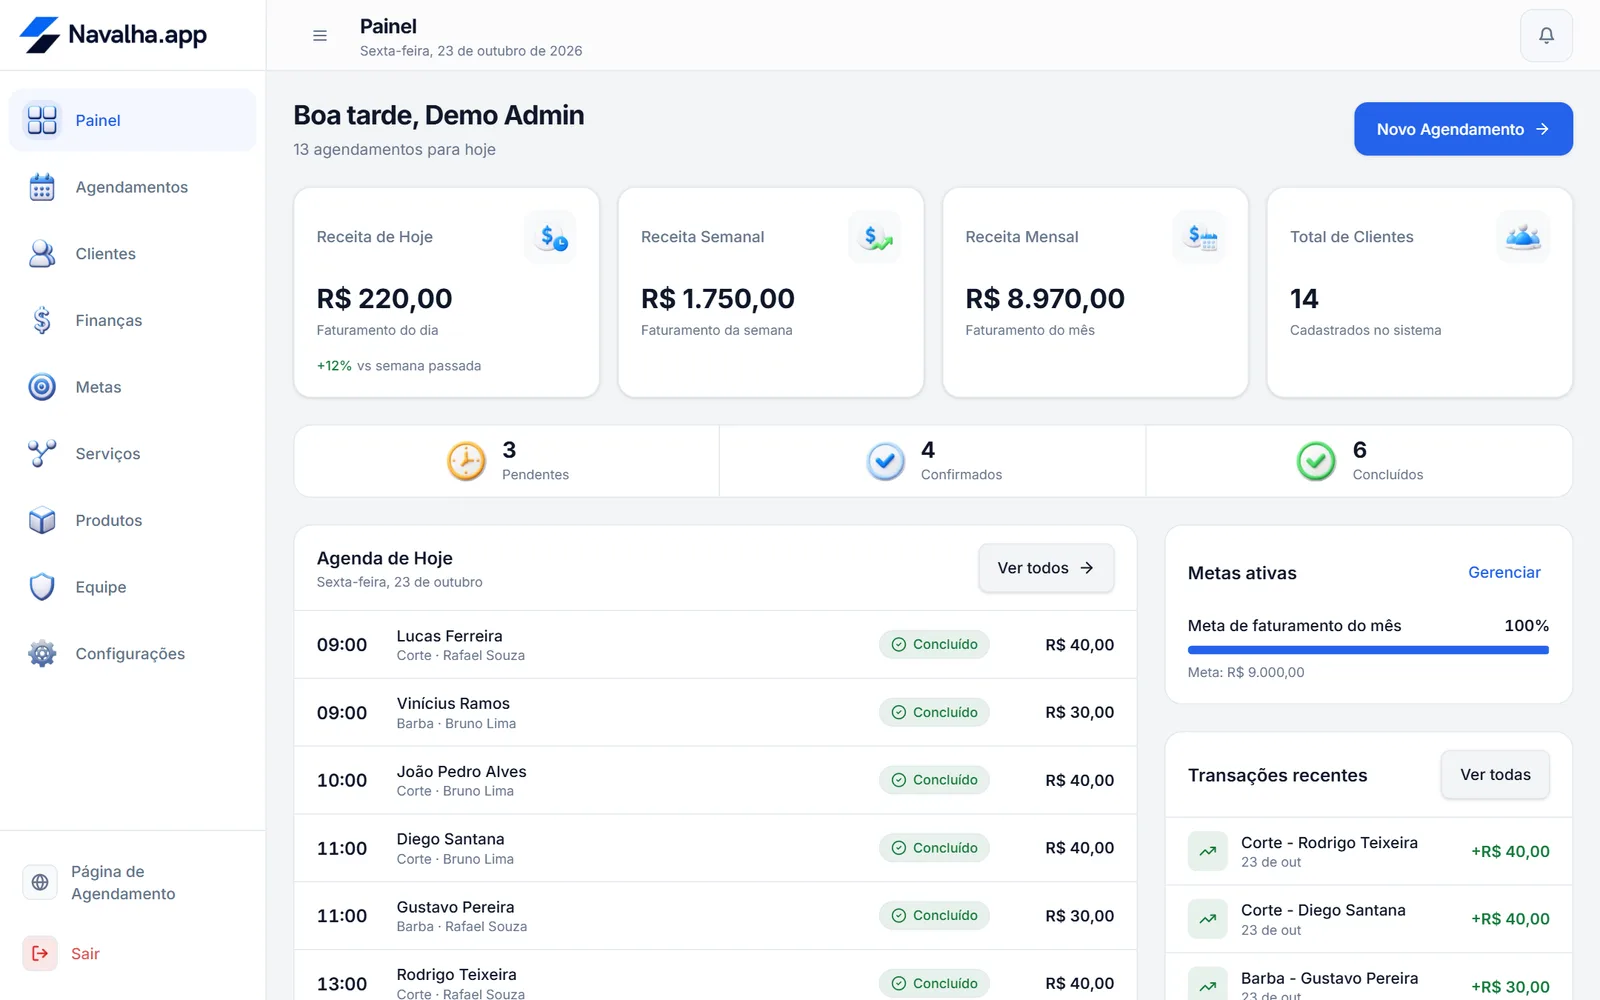
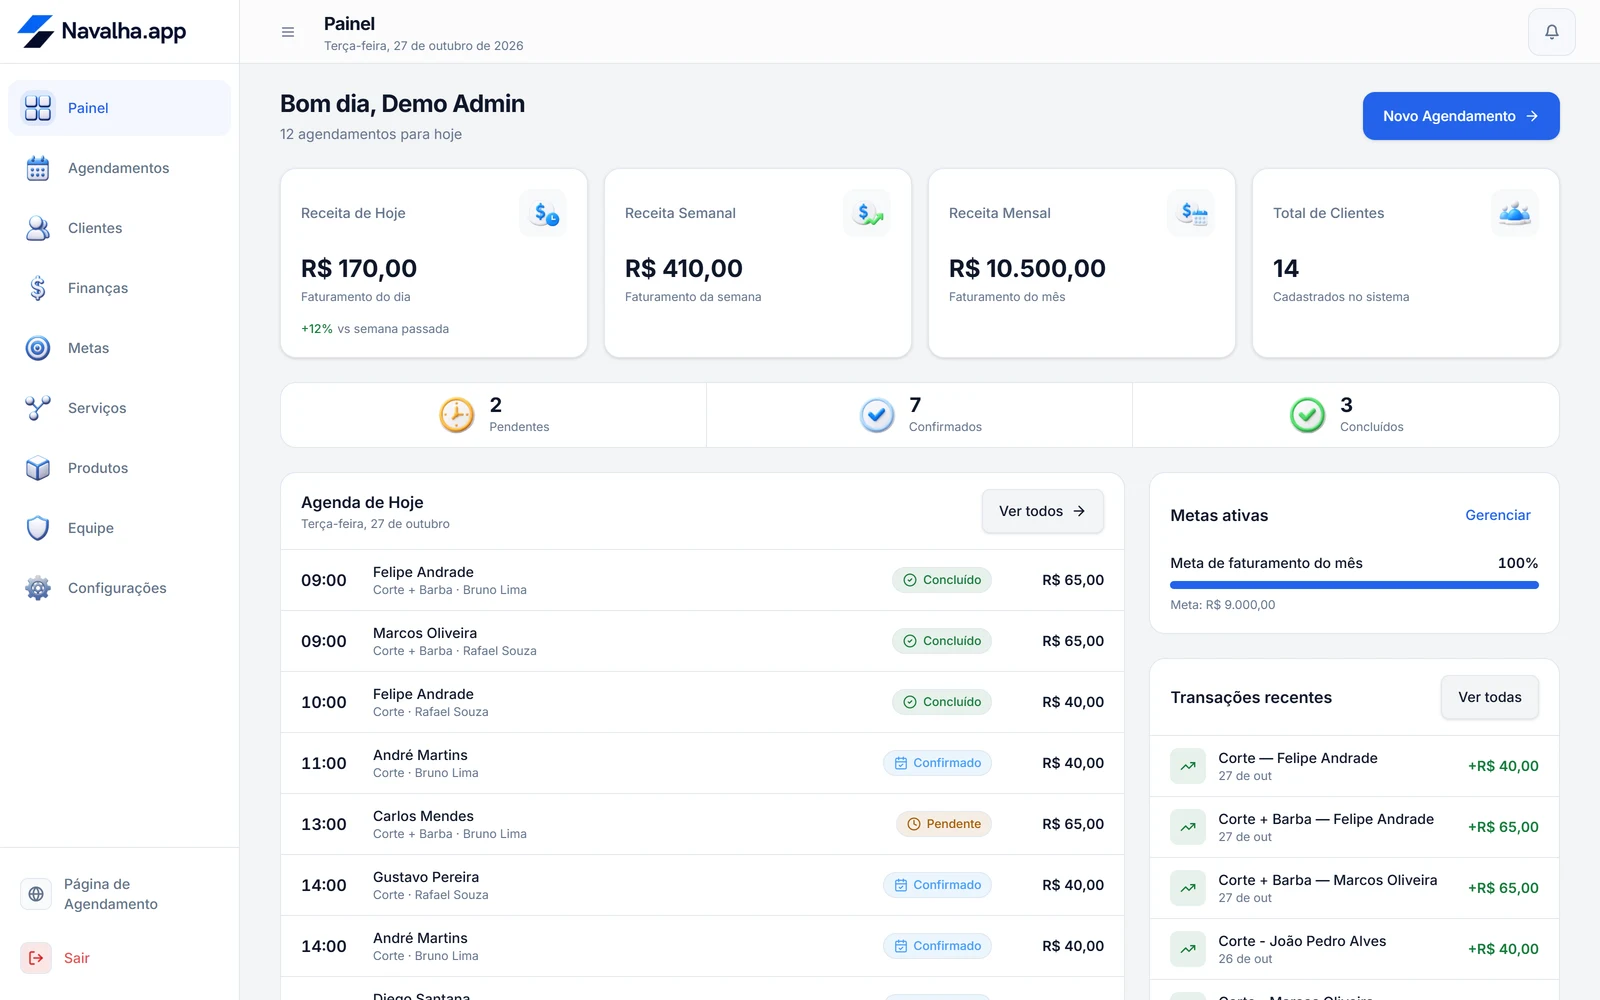
feat(demo): prints novos na documentacao e "proprietario" no lugar de "dono"
Os 10 prints da /produto foram refeitos na demo ao vivo (telas atuais: icones
ilustrados, grafico do Caixa, saudacao pelo nome), capturados em 2x e reduzidos
para 1600 px (celular 700x1515). Equipe, Metas e Produtos cortados logo abaixo
do conteudo, com as alturas ajustadas nas props. Na documentacao, "dono" vira
"proprietario" (o sistema ja usa Administrador e Barbeiro). So texto e imagens.

diff --git a/app/produto/page.tsx b/app/produto/page.tsx
@@ -33,12 +33,12 @@ const shots = {
   agenda: shot('agenda-desktop.webp', 'Agendamentos', 'Os horários do dia, por barbeiro, com o status de cada um.'),
   clientes: shot('clientes-desktop.webp', 'Clientes', 'Cadastro com telefone, total de atendimentos e último atendimento.'),
   servicos: shot('servicos-desktop.webp', 'Serviços', 'Cada serviço com duração, valor e foto.'),
-  equipe: shot('equipe-desktop.webp', 'Equipe', 'Dono e barbeiros, cada um com o seu acesso.', 1600, 600),
+  equipe: shot('equipe-desktop.webp', 'Equipe', 'Proprietário e barbeiros, cada um com o seu acesso.', 1600, 500),
   financas: shot('financas-desktop.webp', 'Finanças', 'Caixa, receitas, despesas, lucro e fluxo de caixa.'),
-  metas: shot('metas-desktop.webp', 'Metas', 'A meta do mês e o quanto já foi alcançado.', 1600, 600),
-  produtos: shot('produtos-desktop.webp', 'Produtos', 'Catálogo com valor e estoque de cada produto.', 1600, 640),
+  metas: shot('metas-desktop.webp', 'Metas', 'A meta do mês e o quanto já foi alcançado.', 1600, 560),
+  produtos: shot('produtos-desktop.webp', 'Produtos', 'Catálogo com valor e estoque de cada produto.', 1600, 540),
   reserva: shot('agendamento-online-celular.webp', 'Agendamento online', 'O que o cliente vê no celular, no passo de escolher o serviço.', 700, 1515),
-  painelCel: shot('painel-celular.webp', 'Painel no celular', 'O dono acompanha a barbearia pelo celular.', 700, 1515),
+  painelCel: shot('painel-celular.webp', 'Painel no celular', 'O proprietário acompanha a barbearia pelo celular.', 700, 1515),
 }
 
 // Menu da documentação: o mesmo no lado esquerdo (computador) e no menu do celular
@@ -46,7 +46,7 @@ const nav: { grupo: string; itens: [id: string, rotulo: string][] }[] = [
   { grupo: 'Começando', itens: [['visao-geral', 'Visão geral'], ['primeiros-passos', 'Primeiros passos']] },
   { grupo: 'Para o cliente', itens: [['agendamento-online', 'Agendamento online']] },
   {
-    grupo: 'Painel do dono',
+    grupo: 'Painel do proprietário',
     itens: [
       ['painel', 'Painel do dia'],
       ['agendamentos', 'Agendamentos'],
@@ -149,7 +149,7 @@ export default function ProdutoPage() {
             Como o Navalha.app funciona, <span className="text-blue-400">tela por tela</span>
           </h1>
           <p className="mt-5 max-w-[60ch] text-base leading-relaxed text-[#9fb0cc] sm:text-lg">
-            Cada parte do sistema, as regras que ele aplica e o que esperar. Para o dono, para o barbeiro e para quem vai implantar. Os prints são desta demonstração, com dados fictícios.
+            Cada parte do sistema, as regras que ele aplica e o que esperar. Para o proprietário, para o barbeiro e para quem vai implantar. Os prints são desta demonstração, com dados fictícios.
           </p>
           <div className="mt-7 flex flex-col gap-3 sm:flex-row">
             <Link href="/login" className={botaoPrimario}>
@@ -172,7 +172,7 @@ export default function ProdutoPage() {
               <RuleTable
                 head={['Perfil', 'Acesso']}
                 rows={[
-                  ['Dono (administrador)', 'Todas as telas: painel, agendamentos, clientes, finanças, metas, serviços, produtos, equipe e configurações. Só o dono cria, edita e remove usuários.'],
+                  ['Proprietário (administrador)', 'Todas as telas: painel, agendamentos, clientes, finanças, metas, serviços, produtos, equipe e configurações. Só o proprietário cria, edita e remove usuários.'],
                   ['Barbeiro', <>Só a tela de <strong className="text-white">Agendamentos</strong>, e apenas com os próprios horários. Ao criar um agendamento, ele entra na própria agenda.</>],
                   ['Cliente', <>Não tem login. Agenda pelo link público da barbearia (<Code>/book</Code>).</>],
                 ]}
@@ -226,7 +226,7 @@ export default function ProdutoPage() {
             <DocSection
               id="painel"
               title="Painel do dia"
-              lead="A primeira tela do dono. Mostra como o dia e o mês estão, sem abrir relatório."
+              lead="A primeira tela do proprietário. Mostra como o dia e o mês estão, sem abrir relatório."
             >
               <RuleTable
                 head={['Bloco', 'O que mostra']}
@@ -253,12 +253,12 @@ export default function ProdutoPage() {
                 A lista é organizada por dia e pode ser filtrada por status (todos, pendentes, confirmados, concluídos e cancelados). Cada linha traz horário, cliente, serviços, barbeiro, valor e status, com um menu de ações. O botão <strong className="text-white">Novo Agendamento</strong> cria um horário pelo balcão.
               </P>
               <P>
-                O barbeiro vê somente os agendamentos dele. O dono vê os de toda a equipe. O que pode mudar de um status para outro está em Status do agendamento.
+                O barbeiro vê somente os agendamentos dele. O proprietário vê os de toda a equipe. O que pode mudar de um status para outro está em Status do agendamento.
               </P>
               <DocFigure shot={shots.agenda} />
             </DocSection>
 
-            <DocSection id="clientes" title="Clientes" lead="O cadastro e o histórico de quem frequenta a barbearia. Telas do dono.">
+            <DocSection id="clientes" title="Clientes" lead="O cadastro e o histórico de quem frequenta a barbearia. Telas do proprietário.">
               <P>
                 Cada cliente tem nome, telefone, e-mail (opcional) e observações. A lista mostra o total de atendimentos e a data do último, e tem busca por nome ou telefone. Há um atalho para chamar o cliente no WhatsApp. Ao remover um cliente, ele é arquivado e some da lista, mas o histórico dos atendimentos é preservado.
               </P>
@@ -280,12 +280,12 @@ export default function ProdutoPage() {
 
             <DocSection id="equipe" title="Equipe e permissões" lead="Cada pessoa entra com a própria conta, e cada uma vê só o que precisa.">
               <P>
-                O dono cadastra os barbeiros com nome, e-mail e cargo (administrador ou barbeiro). Só o dono cria, edita e remove usuários. As permissões de cada perfil estão em Visão geral.
+                O proprietário cadastra os barbeiros com nome, e-mail e cargo (administrador ou barbeiro). Só o proprietário cria, edita e remove usuários. As permissões de cada perfil estão em Visão geral.
               </P>
               <DocFigure shot={shots.equipe} />
             </DocSection>
 
-            <DocSection id="financas" title="Finanças" lead="O caixa da barbearia, sem planilha. Telas do dono.">
+            <DocSection id="financas" title="Finanças" lead="O caixa da barbearia, sem planilha. Telas do proprietário.">
               <P>
                 A tela tem quatro áreas: <strong className="text-white">Visão Geral</strong> (caixa, receitas e despesas do mês, lucro líquido, margem e fluxo de caixa), <strong className="text-white">Transações</strong> (os lançamentos), <strong className="text-white">Relatórios</strong> e <strong className="text-white">Alertas</strong>. Cada atendimento concluído gera uma receita automaticamente. Despesas e outras receitas são lançadas à mão, por categoria.
               </P>
@@ -319,7 +319,7 @@ export default function ProdutoPage() {
                   ['Cliente faz um agendamento', 'O cliente recebe a mensagem de agendamento recebido. O barbeiro também é avisado, se tiver telefone cadastrado.'],
                   ['Agendamento é confirmado', 'O cliente recebe a confirmação com serviço, dia e horário.'],
                   ['Falta cerca de 1 hora', 'Um robô verifica a cada 5 minutos os agendamentos confirmados que começam daqui a 30 a 70 minutos e avisa o cliente e, se tiver telefone cadastrado, o barbeiro.'],
-                  ['Atendimento é concluído', 'O cliente recebe o agradecimento, e o dono recebe o aviso da receita lançada.'],
+                  ['Atendimento é concluído', 'O cliente recebe o agradecimento, e o proprietário recebe o aviso da receita lançada.'],
                 ]}
               />
               <Sub>Confiabilidade</Sub>
@@ -339,7 +339,7 @@ export default function ProdutoPage() {
                   ['Horários', 'O início fica entre 08:00 e 19:30, de 30 em 30 minutos.'],
                   ['Fechamento', 'O serviço precisa terminar até as 20:00. Um serviço longo que passaria disso não é aceito naquele horário.'],
                   ['Datas', 'Não é possível agendar no passado.'],
-                  ['Cancelamento', 'O barbeiro só cancela com pelo menos 2 horas de antecedência. O dono pode corrigir um status a qualquer momento.'],
+                  ['Cancelamento', 'O barbeiro só cancela com pelo menos 2 horas de antecedência. O proprietário pode corrigir um status a qualquer momento.'],
                   ['Fuso', 'Todos os horários seguem o fuso da barbearia.'],
                 ]}
               />
@@ -360,7 +360,7 @@ export default function ProdutoPage() {
                 rows={[
                   ['Pendente', 'Confirmado ou Cancelado.'],
                   ['Confirmado', 'Concluído ou Cancelado.'],
-                  ['Concluído e Cancelado', 'São finais para o barbeiro. O dono pode corrigir.'],
+                  ['Concluído e Cancelado', 'São finais para o barbeiro. O proprietário pode corrigir.'],
                 ]}
               />
               <Sub>Travas</Sub>
